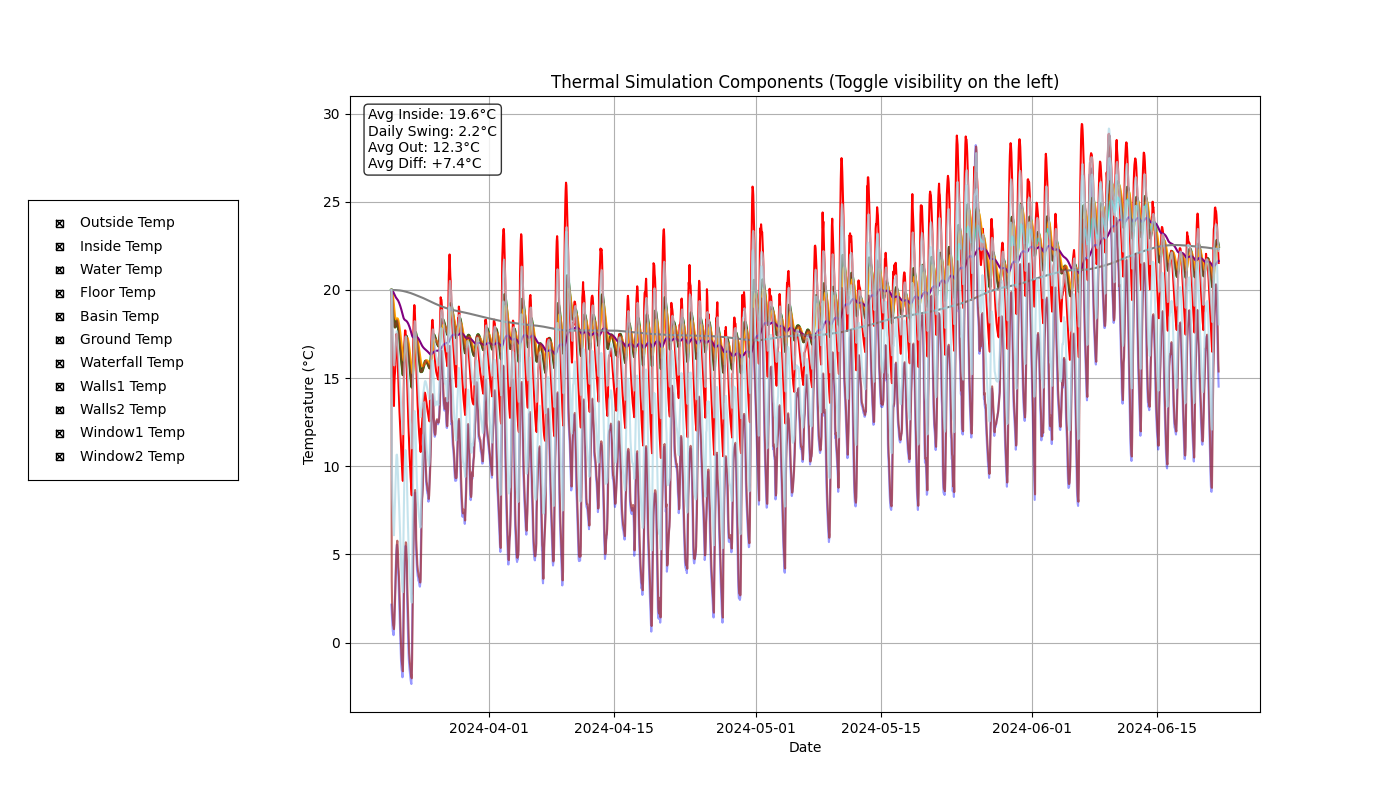
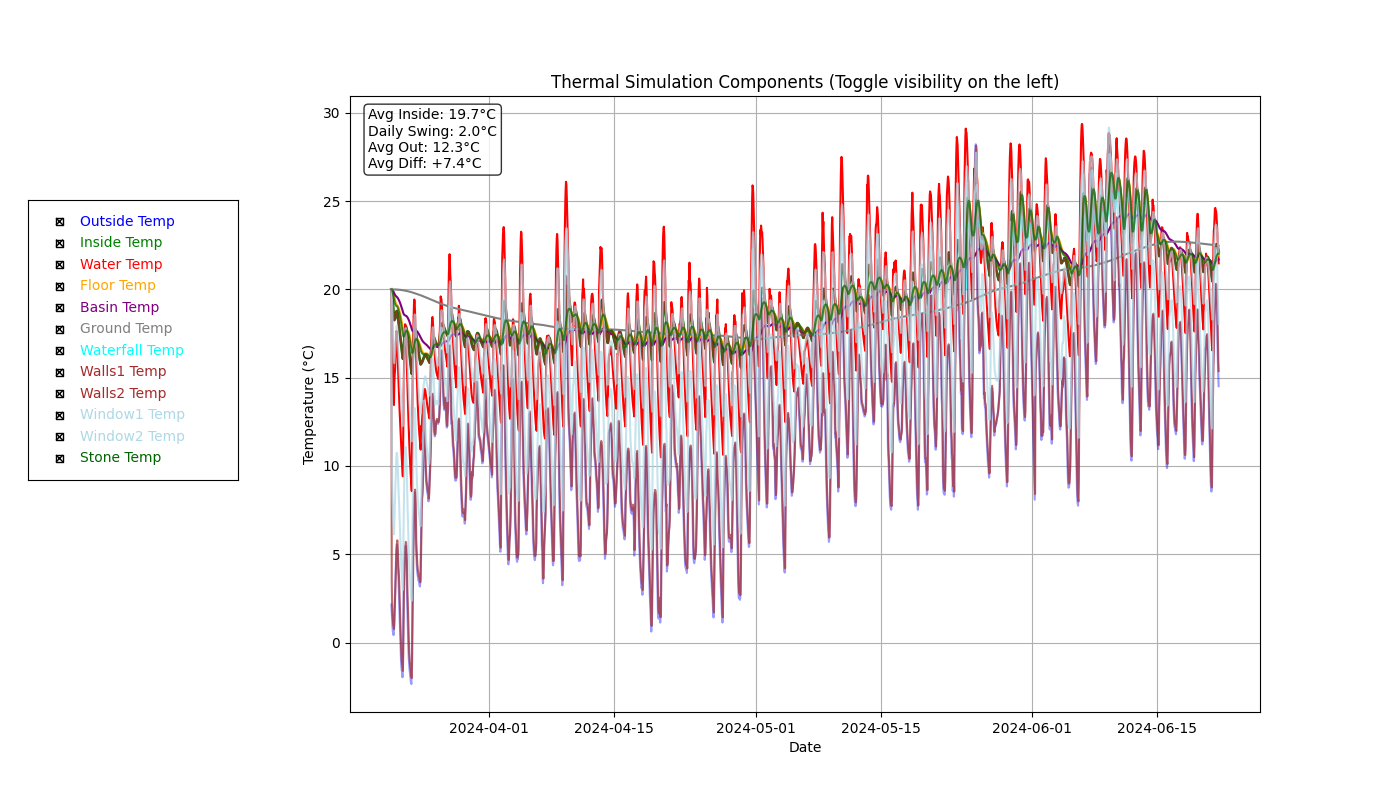
corrected mistakes and plot adjustments
equations should be correct now, values still have to be checked. I added colors to the plot labels, such that I don't have to guess which is which anymore :)

Changed region(s): [[0.2764, 0.1875, 0.8907, 0.5625], [0.0307, 0.25, 0.1536, 0.5938]]

diff --git a/Thermal_sim/AttemptingSomething/Thermal_simulation_updated_with_regulation.py b/Thermal_sim/AttemptingSomething/Thermal_simulation_updated_with_regulation.py
@@ -66,12 +66,15 @@ def run_thermal_simulation():
     sigma = 5.67e-8     # Stefan-Boltzmann (W/m2.K4)        # Literature
     rho_glass = 2500    # Needs checking (AI)
     c_p_glass = 840    # Needs checking (AI)
+    rho_stone = 2700   # needs checking (AI) = density of the stone (granite) floor
+    c_p_stone = 790    # needs checking (AI) = specific heat of the stone floor
 
     # Dimensions.
     V_in = 51.52        # Volume of the house interior     
     V_wat = 1.015       # Volume of the water compartment   
     V_basin = 4.19      # Volume of the cold water basin    
     V_fa = 0.0005       # Volume of waterfall
+    V_floor =  4*0.1*4 # Volume of the floor, adjusted based on our dimensions
 
     A_collector = 10.15  # Surface area of the absorber
     A_walls1 = 51.52     # Surface area of the inside walls         # Calculated (still needs an extra check)
@@ -83,6 +86,7 @@ def run_thermal_simulation():
     A_basin = 12.57    # Surface area of the cold basin    # Assumption
     A_fa = 4.88         # surface area of the waterfall, m², Found in 6.2
     A_iso = 16
+    A_stone = 16        # added, stone layer to include, such that we can empty the floor but still have thermal contact with something that is not the isolation layer
 
     d_iso = 0.15
     d_walls1 = 0.015    # Needs checking (AI)
@@ -93,12 +97,14 @@ def run_thermal_simulation():
     # added to accomodate for windows: 
     d_glass = 0.05      # needs checking, pure assumption
     k_glass = 1.0       # needs checking (AI)
+    d_stone = 0.05      # needs checking (AI) = stone thickness for the floor
+    
 
     # Assuming pumps keep water mass constant per compartment we can calculate thermal masses as if they were static volumes of water.
     C_in = V_in * rho_air * c_p_air                 # Thermal mass of the house interior
     C_wat = V_wat * rho_wat * c_p_wat               # Thermal mass of the water compartment (window)
     C_basin = V_basin * rho_wat * c_p_wat           # Thermal mass of the hot water basin
-    C_floor = 3*10**6                               # Thermal mass of concrete floor
+    C_floor = V_floor * rho_wat * c_p_wat         # adjusted based on our dimensions
     C_ground = 84*10**6
     C_iso = 117600
     C_fa = V_fa*rho_wat*c_p_wat
@@ -106,6 +112,7 @@ def run_thermal_simulation():
     C_walls2 = A_walls2*d_walls2*rho_brick*c_p_brick
     C_window1 = A_in_wat*d_glass*rho_glass*c_p_glass
     C_window2 = A_collector*d_glass*rho_glass*c_p_glass
+    C_stone = A_stone*d_stone*rho_stone*c_p_stone # added, stone layer to include, such that we can empty the floor but still have thermal contact with something that is not the isolation layer
 
     # Convection Coefficients (W/m2.K)
     # h_out is according to Gemini: 10 + 4v , thus calculating per step in loop
@@ -114,7 +121,7 @@ def run_thermal_simulation():
     h_walls1 = h_in
     h_walls2 = h_out
     h_fa = 3 # section 6.2
-    h_floor = 10
+    h_stone = 10
 
     # Conduction Coefficients (W/m2.K)
     k_iso = 0.002 #polyurethane
@@ -122,16 +129,17 @@ def run_thermal_simulation():
     k_walls1 = 38 #Xander: gonna add full calculation in main soon (double check tho)
     k_walls2 = 5.666 #Xander: gonna add full calculation in main soon (double check tho)
     k_wiso = 0.208
+    k_stone = 2.75      # needs checking (AI) = thermal conductivity of the stone floor
+    
     # Radiation Coefficients (W/m2.K)
     epsilon_w_in = 0.95       # Emissivity (this is water, right?)
     epsilon_w_out = 0.95      # Emissivity (this is water, right?)
     epsilon_fa = 0.95         # Emissivity
     epsilon_walls1 = 0.91      # Emissivity
     epsilon_walls2 = 0.93      # Emissivity
-    epsilon_floor = 0.97      # Emissivity
     epsilon_window1_in = 0.9   # AI, still need to check
     epsilon_window2_out = 0.9  # AI, still need to check
-
+    epsilon_stone = 0.95      # needs checking (AI) = emissivity of the stone floor
     # advection coefficients (W/m2.K)
     
     # Pump capacities (This will need to go to a dynamic system.)
@@ -160,7 +168,8 @@ def run_thermal_simulation():
     # added inside and outside windows
     T_window1 = np.zeros(hours)
     T_window2 = np.zeros(hours)
-    
+    # added stone floor
+    T_stone = np.zeros(hours)
 
     # Initial conditions (K),  Needs update.
     T_in[0] = 273.15 + 20
@@ -175,6 +184,9 @@ def run_thermal_simulation():
     # add inside and outside windows
     T_window1[0] = 273.15 + 20
     T_window2[0] = 273.15 + 20
+    # add stone floor
+    T_stone[0] = 273.15 + 20
+
 
     current_T_in = T_in[0]
     current_T_wat = T_wat[0]
@@ -188,7 +200,7 @@ def run_thermal_simulation():
     # same here
     current_T_window1 = T_window1[0]
     current_T_window2 = T_window2[0]
-
+    current_T_stone = T_stone[0]
     prev_waterfall_on = False # initialization of the waterfall control logic
     waterfall_active = np.zeros(hours, dtype= bool) 
 
@@ -214,11 +226,15 @@ def run_thermal_simulation():
         
         comfortable = not too_cold and not too_hot
 
-        floor_heating_on = too_cold
         waterfall_on = too_hot
+        floor_drain_on = too_hot # drain the floor to prevent overheating
+      
+        floor_heating_on = too_cold
+        floor_filled = not floor_drain_on 
 
         m_dot_floor_active = m_dot_floor if floor_heating_on else 0.0
-        m_dot_fa_active = m_dot_pump if waterfall_on else 0.0       
+        m_dot_fa_active = m_dot_pump if waterfall_on else 0.0
+
 
         if waterfall_on and not prev_waterfall_on:
                     current_T_fa = current_T_basin
@@ -248,13 +264,15 @@ def run_thermal_simulation():
                 k_glass / d_glass * (current_T_wat - current_T_window2)
                 )
 
+
             dT_wat = A_collector * (
                 P_sun + 
                 k_glass / d_glass * (current_T_window2 - current_T_wat) + # from outer glass
                 k_glass / d_glass * (current_T_window1 - current_T_wat) # from inner glass
-                )+ (
+                ) + (
                 m_dot_pump * c_p_wat * (current_T_basin - current_T_wat) )  # evap removed as it should only be in the waterfall equation
 
+            
             dT_window1 = A_collector * (
                 k_glass / d_glass * (current_T_wat - current_T_window1) + # from water
                 h_in * (current_T_in - current_T_window1) + # from inside air
@@ -270,9 +288,9 @@ def run_thermal_simulation():
                 + A_walls1 * (
                 h_walls1 * (current_T_walls1 - current_T_in) +
                 sigma * epsilon_walls1 * (current_T_walls1**4 - current_T_in**4))\
-                + A_floor * (
-                h_floor * (current_T_floor - current_T_in) +
-                sigma * epsilon_floor * (current_T_floor**4 - current_T_in**4)    
+                + A_stone * (
+                h_stone * (current_T_stone - current_T_in) +
+                sigma * epsilon_stone * (current_T_stone**4 - current_T_in**4)    
                 )
             
             dT_walls1 = A_walls1 * (
@@ -294,13 +312,26 @@ def run_thermal_simulation():
                 waterfall_on * (h_fa * A_fa * (current_T_in - current_T_fa) +\
                 sigma * epsilon_fa * (current_T_in**4 - current_T_fa**4)) +\
                 - m_dot_evap * L_v
-
-            dT_floor = m_dot_floor_active * c_p_wat * (current_T_basin - current_T_floor) +\
-                A_floor * (
-                h_floor * (current_T_in - current_T_floor) +
-                sigma * epsilon_floor * (current_T_in**4 - current_T_floor**4) +
-                k_iso * (current_T_iso - current_T_floor)/d_iso)
             
+
+            # stone layer to conduct heat from water underneath and convect and radiate to the room above
+            dT_stone = A_stone * (
+                k_stone / d_stone * (current_T_floor - current_T_stone) * floor_filled + # conduction from water below
+                h_stone * (current_T_in - current_T_stone) + # convection from stone to air
+                sigma * epsilon_stone * (current_T_in**4 - current_T_stone**4) # radiation from floor
+            )
+
+            # only activate active floor heating when the pump is on.
+            if floor_filled:        
+                dT_floor = m_dot_floor_active * c_p_wat * (current_T_basin - current_T_floor) +\
+                    A_floor * (
+                    k_stone / d_stone * (current_T_stone - current_T_floor) + # conduction to stone layer
+                    k_iso / d_iso * (current_T_iso - current_T_floor) )# conduction to isolation layer
+            else:
+                current_T_floor = current_T_stone
+                dT_floor = 0
+
+
             dT_iso = k_iso * A_iso / d_iso * (current_T_floor + current_T_ground - 2 * current_T_iso)
             
             dT_ground = k_ground * A_ground / d_ground * (current_T_iso + current_T_basin - 2 * current_T_ground)
@@ -309,6 +340,7 @@ def run_thermal_simulation():
                 m_dot_floor_active * c_p_wat * (current_T_floor - current_T_basin) +\
                 m_dot_fa_active * c_p_wat * (current_T_fa - current_T_basin) +\
                 k_ground * A_basin / d_basin * (current_T_ground - current_T_basin) 
+
 
             current_T_wat += dT_wat * dt / (C_wat * 3600)
             current_T_in += dT_in * dt / (C_in * 3600)
@@ -323,6 +355,7 @@ def run_thermal_simulation():
             current_T_window1 += dT_window1 * dt / (C_window1 * 3600) # update C
             current_T_window2 += dT_window2 * dt / (C_window2 * 3600) # 
 
+            current_T_stone += dT_stone *dt / (C_stone * 3600) # update for stone layer
         
         T_in[i+1] = current_T_in
         T_wat[i+1] = current_T_wat
@@ -337,6 +370,7 @@ def run_thermal_simulation():
         T_window1[i+1] = current_T_window1
         T_window2[i+1] = current_T_window2
 
+        T_stone[i+1] = current_T_stone
 
     #
     # Restore temperatures to Celsius 
@@ -354,6 +388,7 @@ def run_thermal_simulation():
     T_window1 -= 273.15
     T_window2 -= 273.15
 
+    T_stone -= 273.15
     # ---------------------------------------------------------
     # 8. CALCULATE STATISTICS
     # ---------------------------------------------------------
@@ -405,7 +440,24 @@ def run_thermal_simulation():
         'Walls1 Temp':    ax.plot(df_sim['datetime'], T_walls1, label='Walls1 Temp', color='brown', alpha=0.7)[0],
         'Walls2 Temp':    ax.plot(df_sim['datetime'], T_walls2, label='Walls2 Temp', color='brown', alpha=0.7)[0],
         'Window1 Temp':   ax.plot(df_sim['datetime'], T_window1, label='Window1 Temp', color='lightblue', alpha=0.7)[0], # added 
-        'Window2 Temp':   ax.plot(df_sim['datetime'], T_window2, label='Window2 Temp', color='lightblue', alpha=0.7)[0] # added
+        'Window2 Temp':   ax.plot(df_sim['datetime'], T_window2, label='Window2 Temp', color='lightblue', alpha=0.7)[0], # added
+        'Stone Temp':     ax.plot(df_sim['datetime'], T_stone, label='Stone Temp', color='darkgreen', alpha=0.7)[0]  # added
+    }
+
+    # set default visibility (only inside and outside temp visible)
+    default_visibility = {
+        'Outside Temp': True,
+        'Inside Temp': True,
+        'Water Temp': False,
+        'Floor Temp': False,
+        'Basin Temp': False,
+        'Ground Temp': False,
+        'Waterfall Temp': False,
+        'Walls1 Temp': False,
+        'Walls2 Temp': False,
+        'Window1 Temp': False,  
+        'Window2 Temp': False,  
+        'Stone Temp': False     
     }
 
     # Text box for stats
@@ -428,8 +480,19 @@ def run_thermal_simulation():
     rax = plt.axes([0.02, 0.4, 0.15, 0.35])
     labels = list(lines.keys())
     # Set default visibility (True for all)
-    visibility = [True] * len(labels)
+    visibility = [default_visibility[label] for label in labels]
     check = CheckButtons(rax, labels, visibility)
+
+    
+
+    # give each checkbox-label the same color as the line
+    for label, visible in default_visibility.items():
+        lines[label].set_visible(visible)
+
+    # color checkbox labels to match lines
+    for text in check.labels:
+        line_color = lines[text.get_text()].get_color()
+        text.set_color(line_color)
 
     # Callback function to toggle lines
     def toggle_visibility(label):
@@ -438,7 +501,7 @@ def run_thermal_simulation():
 
     check.on_clicked(toggle_visibility)
 
-    plt.savefig(r'C:\Users\Matti\Documents\GitHub\House2O\Thermal_sim\AttemptingSomething\test_thermal_simulation_added_windows_different_panelsettings.png')
+    plt.savefig(r'C:\Users\Matti\Documents\GitHub\House2O\Thermal_sim\AttemptingSomething\thermal_simulation_final.png')
     plt.show()
 
 if __name__ == "__main__":